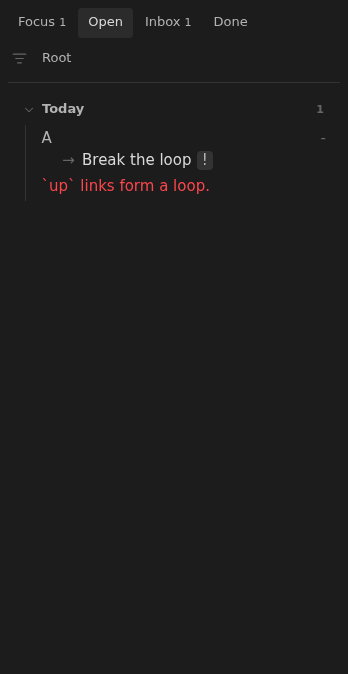
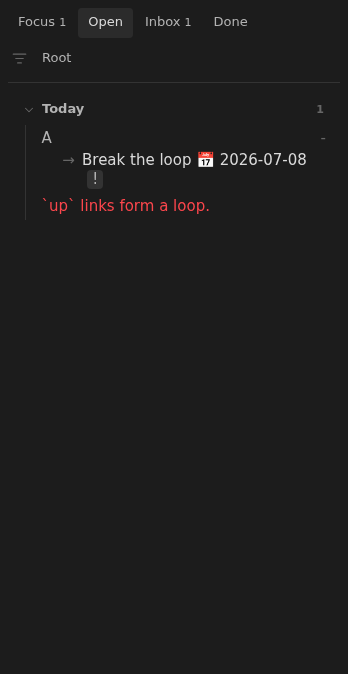
feat: remove task action override

Changed region(s): [[0.4598, 0.2181, 0.8908, 0.3116], [0.2299, 0.2493, 0.431, 0.3116], [0.1437, 0.2493, 0.2011, 0.3116]]

diff --git a/src/taskParsing.ts b/src/taskParsing.ts
@@ -1,11 +1,6 @@
 import { isoToTs, shiftIsoDate } from "./date";
 import type { PriorityDirection } from "./priority";
-import {
-  nextPriorityRank,
-  parsePriority,
-  setPriorityInText,
-  stripPrioritySignifier,
-} from "./priority";
+import { nextPriorityRank, parsePriority, setPriorityInText } from "./priority";
 import type { EyeTask } from "./types";
 
 const TASK_LINE_RE = /^(\s*)([-*+]\s+\[([^\]])\]\s*)(.*)$/;
@@ -49,18 +44,6 @@ export function shiftDueDateInText(text: string, deltaDays: number): string {
   const match = text.match(DUE_RE);
   if (!match) return text;
   return text.replace(DUE_RE, `$1${shiftIsoDate(match[2]!, deltaDays)}`);
-}
-
-export function stripDueDate(text: string): string {
-  return stripPrioritySignifier(
-    text
-      .replace(/📅\s*\d{4}-\d{2}-\d{2}/g, "")
-      .replace(/ðŸ\S*\s*\d{4}-\d{2}-\d{2}/g, "")
-      .replace(/ð\S*/g, "")
-      .replace(/\s+\d{4}-\d{2}-\d{2}$/g, "")
-      .replace(/\s{2,}/g, " ")
-      .trim(),
-  );
 }
 
 function replacementLines(replacement: string): string[] {

diff --git a/test/taskParsing.test.ts b/test/taskParsing.test.ts
@@ -5,7 +5,6 @@ import {
   setTaskPriorityInMarkdown,
   shiftDueDateInText,
   shiftTaskDueInMarkdown,
-  stripDueDate,
 } from "../src/taskParsing";
 
 describe("task parsing", () => {
@@ -43,14 +42,6 @@ describe("task parsing", () => {
     expect(shiftDueDateInText("- [ ] Review 📅 2026-07-08", 7)).toBe(
       "- [ ] Review 📅 2026-07-15",
     );
-  });
-
-  it("strips due date markers from display labels", () => {
-    expect(stripDueDate("Review 📅 2026-07-08")).toBe("Review");
-    expect(stripDueDate("Review ⏫ 📅 2026-07-08")).toBe("Review");
-    expect(stripDueDate("Review ðŸ“… 2026-07-08")).toBe("Review");
-    expect(stripDueDate("Review ð")).toBe("Review");
-    expect(stripDueDate("Review 2026-07-08")).toBe("Review");
   });
 
   it("replaces the matched task line with multi-line Tasks output", () => {

diff --git a/src/model.ts b/src/model.ts
@@ -13,7 +13,6 @@ import {
   todayIso,
 } from "./date";
 import { NORMAL_PRIORITY } from "./priority";
-import { stripDueDate } from "./taskParsing";
 import { findEarliestDueTask, getEarliestDueDate } from "./taskSelection";
 import type { EyeFile, RowModel } from "./types";
 import type { AvailabilityConfig, VacationMarker } from "./vacation";
@@ -71,9 +70,7 @@ export function buildRowModel(
     earliestTask,
     errors: rowErrors(file, availability, indexedFiles),
     isFuture: earliestDue !== null && isAfterToday(earliestDue),
-    actionLabel: earliestTask
-      ? stripDueDate(earliestTask.text)
-      : "No unchecked tasks",
+    actionLabel: earliestTask ? earliestTask.text : "No unchecked tasks",
     contextKey: getContextForFile(file, indexedFiles),
     contextLabel: getContextForFile(file, indexedFiles),
   };

diff --git a/features/actions-markdown-rendering/actions-markdown-rendering.test.ts b/features/actions-markdown-rendering/actions-markdown-rendering.test.ts
@@ -3,7 +3,7 @@ import { buildRowModel } from "../../src/model";
 import { file } from "../testSupport";
 
 describe("Markdown-formatted board actions feature", () => {
-  it("preserves action Markdown while removing the Tasks due marker", () => {
+  it("preserves action Markdown and the verbatim task text", () => {
     const row = buildRowModel(
       file(
         "Architecture/Technology Radar.md",
@@ -18,7 +18,7 @@ up: -
     );
 
     expect(row.actionLabel).toBe(
-      "Review [[ADR-042 Tenant Isolation|ADR-042]] with **Security Architecture** and record the decision in `architecture/tenant-isolation`",
+      "Review [[ADR-042 Tenant Isolation|ADR-042]] with **Security Architecture** and record the decision in `architecture/tenant-isolation` 📅 2026-07-08",
     );
   });
 });

diff --git a/features/actions-markdown-rendering/wdio.ts b/features/actions-markdown-rendering/wdio.ts
@@ -4,7 +4,7 @@ import { tasksEyePage } from "../../acceptance/support/tasks-eye-page";
 import { fixture, note } from "../fixtures";
 
 const RENDERED_ACTION =
-  "Review ADR-042 with Security Architecture and record the decision in architecture/tenant-isolation";
+  "Review ADR-042 with Security Architecture and record the decision in architecture/tenant-isolation 📅 2026-07-08";
 
 const markdownFixture = fixture([
   note("Tree Root.md", {

diff --git a/features/actions-board-task-controls/actions-board-task-controls.test.ts b/features/actions-board-task-controls/actions-board-task-controls.test.ts
@@ -19,7 +19,9 @@ up: -
       ),
     );
 
-    expect(row.actionLabel).toBe("Approve the billing event contract");
+    expect(row.actionLabel).toBe(
+      "Approve the billing event contract 📅 2026-07-08",
+    );
     expect(row.earliestTask?.dueIso).toBe("2026-07-08");
   });
 

diff --git a/test/model.test.ts b/test/model.test.ts
@@ -180,7 +180,7 @@ up: -
       ),
     );
 
-    expect(row.actionLabel).toBe("open later");
+    expect(row.actionLabel).toBe("open later 📅 2026-06-20");
     expect(row.earliestDue).toBe(isoToTs("2026-06-20"));
   });
 });

diff --git a/features/views-open/views-open.test.ts b/features/views-open/views-open.test.ts
@@ -74,7 +74,7 @@ up: -
       ),
     );
 
-    expect(row.actionLabel).toBe("earlier");
+    expect(row.actionLabel).toBe("earlier 📅 2026-07-08");
     expect(row.earliestTask?.dueIso).toBe("2026-07-08");
   });
 });
